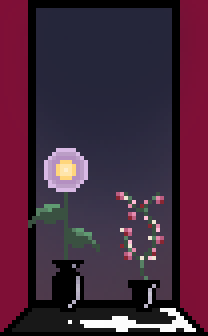
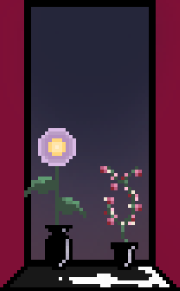
ironed out all of the small scaling issues
future proofed everything and fixed the space door, ubuntu server map image, etc

diff --git a/index.html b/index.html
@@ -95,8 +95,8 @@
                                         <!-- allows scrolling in the content border (nested) -->
                                         <div class="scrollable">
                                             <h3 class="content-header">Updates</h3>
-                                            <p>(Last updated: 9/9/26)</p>
-                                            <article><p>9/9/26: Fixed all scaling issues on the Ubuntu and Pi-hole WireGuard pages + Added more art</p></article>
+                                            <p>(Last updated: 9/12/26)</p>
+                                            <article><p>9/9/26 + 9/12/26: Ironed out all of the small scaling issues; works on FireFox and Chrome for desktop and mobile</p></article>
                                             <article><p>8/31/26 - 9/1/26: site scales for all devices, and removed sidebar and rail</p></article>
                                             <article><p>8/18/26: removed the splash page</p></article>
                                             <article><p>8/7/26: added more content to the bedroom page</p></article>

diff --git a/Pages/door.html b/Pages/door.html
@@ -45,16 +45,16 @@
         </header>
 
             <!-- MIDDLE: main content -->
-            <main class="middle">
+            <main class="middle door flex-row">
                 <!-- left window -->
-                <img src="../images/flower-window.png" style="max-height: 180px;">
+                <img src="../images/flower-window.png" style="margin-bottom: 50px;">
 
                 <!-- space door -->
                 <!-- Image Map Generated by http://www.image-map.net/ -->
-                <img src="../images/space-door.png" usemap="#space-door" style="max-width: 160px;">
+                <img src="../images/space-door.png" usemap="#space-door">
 
                 <!-- right window -->
-                <img src="../images/flower-window.png" style="max-height: 180px;">
+                <img src="../images/flower-window.png" style="margin-bottom: 50px;">
             </main> <!-- END OF MIDDLE/MAIN -->
 
             <map name="space-door"> <!-- removed from main/middle because of invisible whitespace -->

diff --git a/Pages/ubuntu-server.html b/Pages/ubuntu-server.html
@@ -157,7 +157,7 @@
                                             <li class="indent">These containers are defined in the Caddyfile with their own .home domain</li>
                                         </ul>
 
-                                        <img src="../images/ubuntu-server-map.jpg">           
+                                        <img src="../images/ubuntu-server-map.jpg" class="centered" style="max-width: 250px; padding: 10px 0px 10px 0px;">           
                                         <ul class="list">
                                             <li>I feel like the best way of visualizing my Docker setup with Caddy is by using the apartment or hotel analogy:</li>
                                             <li><strong><u>Receptionist (Caddy):</u></strong></li>

diff --git a/style.css b/style.css
@@ -378,9 +378,22 @@ main {
 }
 
 .stickers {
+    display: flex;
     flex-direction: row;
     align-items: center;
     flex-wrap: wrap;
+}
+
+.door {
+    display: flex;
+    flex-direction: row;
+}
+
+.door img {
+    flex-shrink: 1;
+    min-width: 0;
+    max-width: 100%;
+    align-items: flex-end;
 }
                                                         /* DEVICES */ 
 
@@ -388,6 +401,14 @@ main {
     img {
         max-width: 100%;
         height: auto;
+    }
+
+    .site-name {
+        font-size: 40px;
+    }
+
+    .top-nav-btn {
+        font-size: 20px; 
     }
 
     main {
